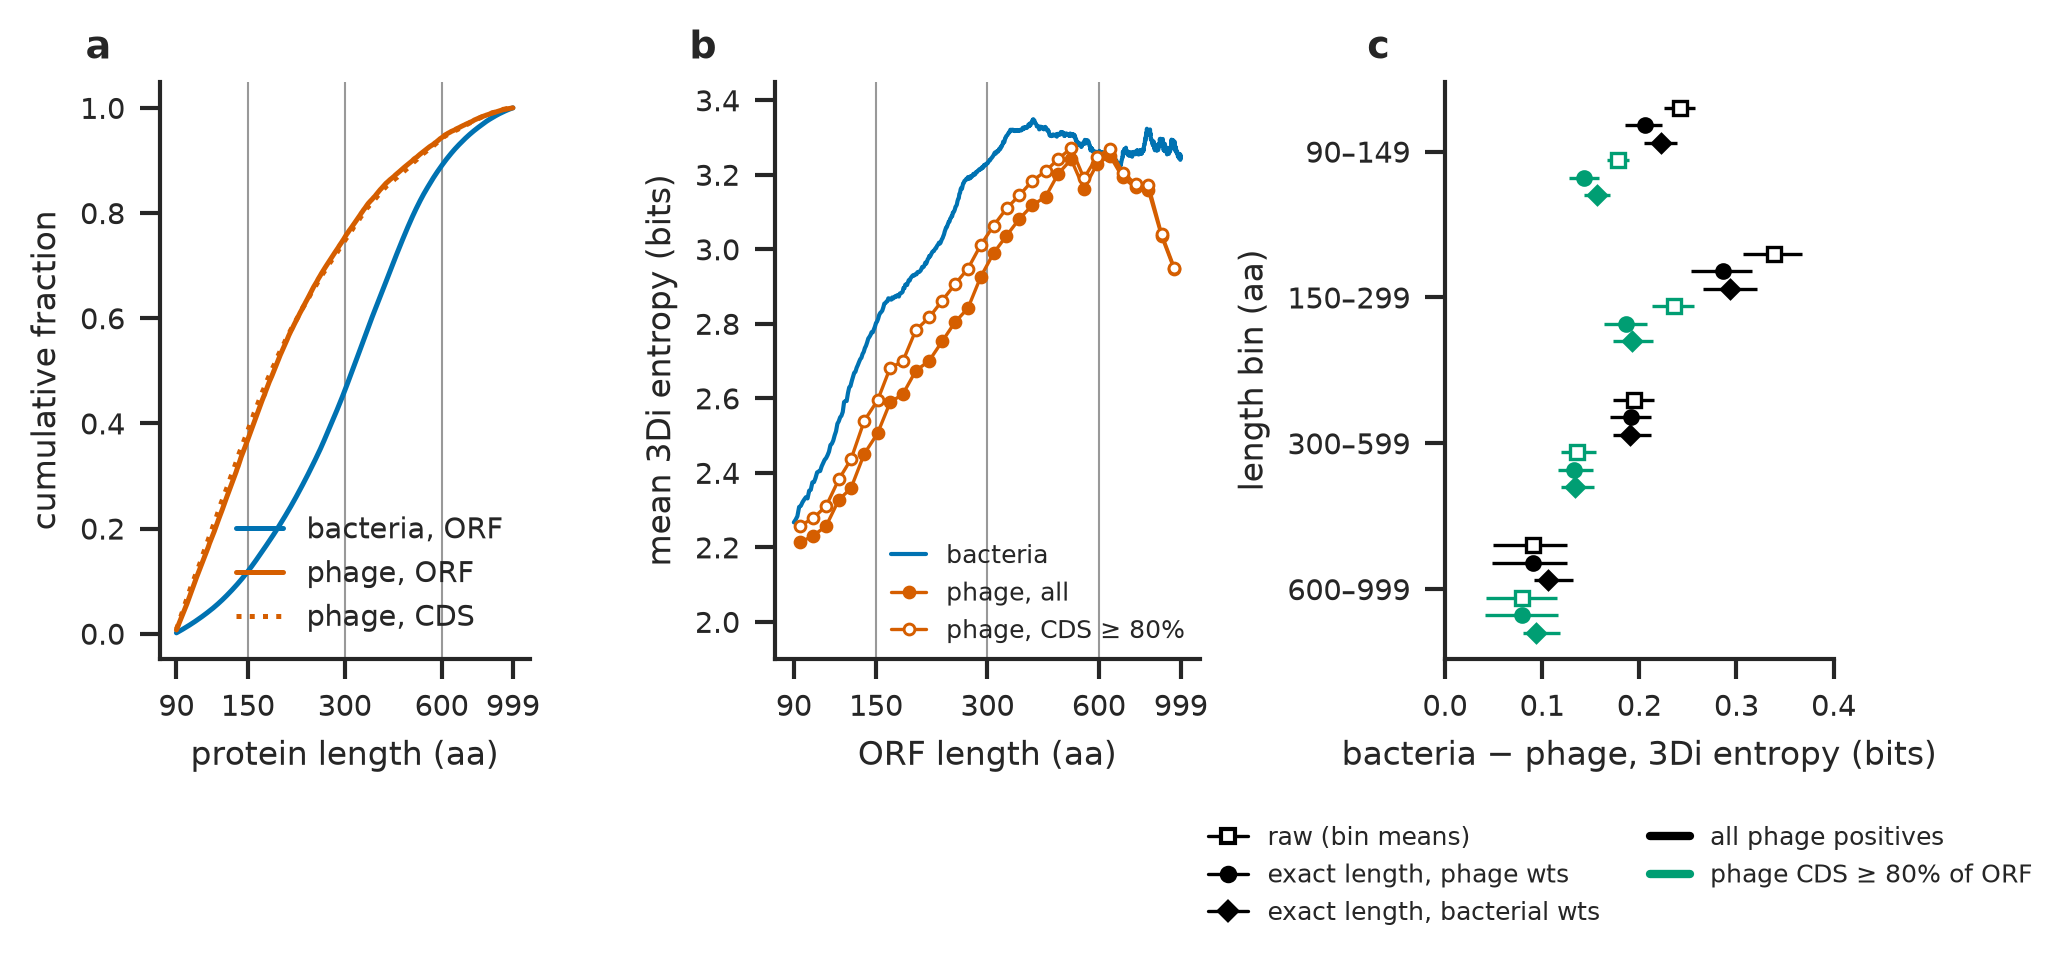
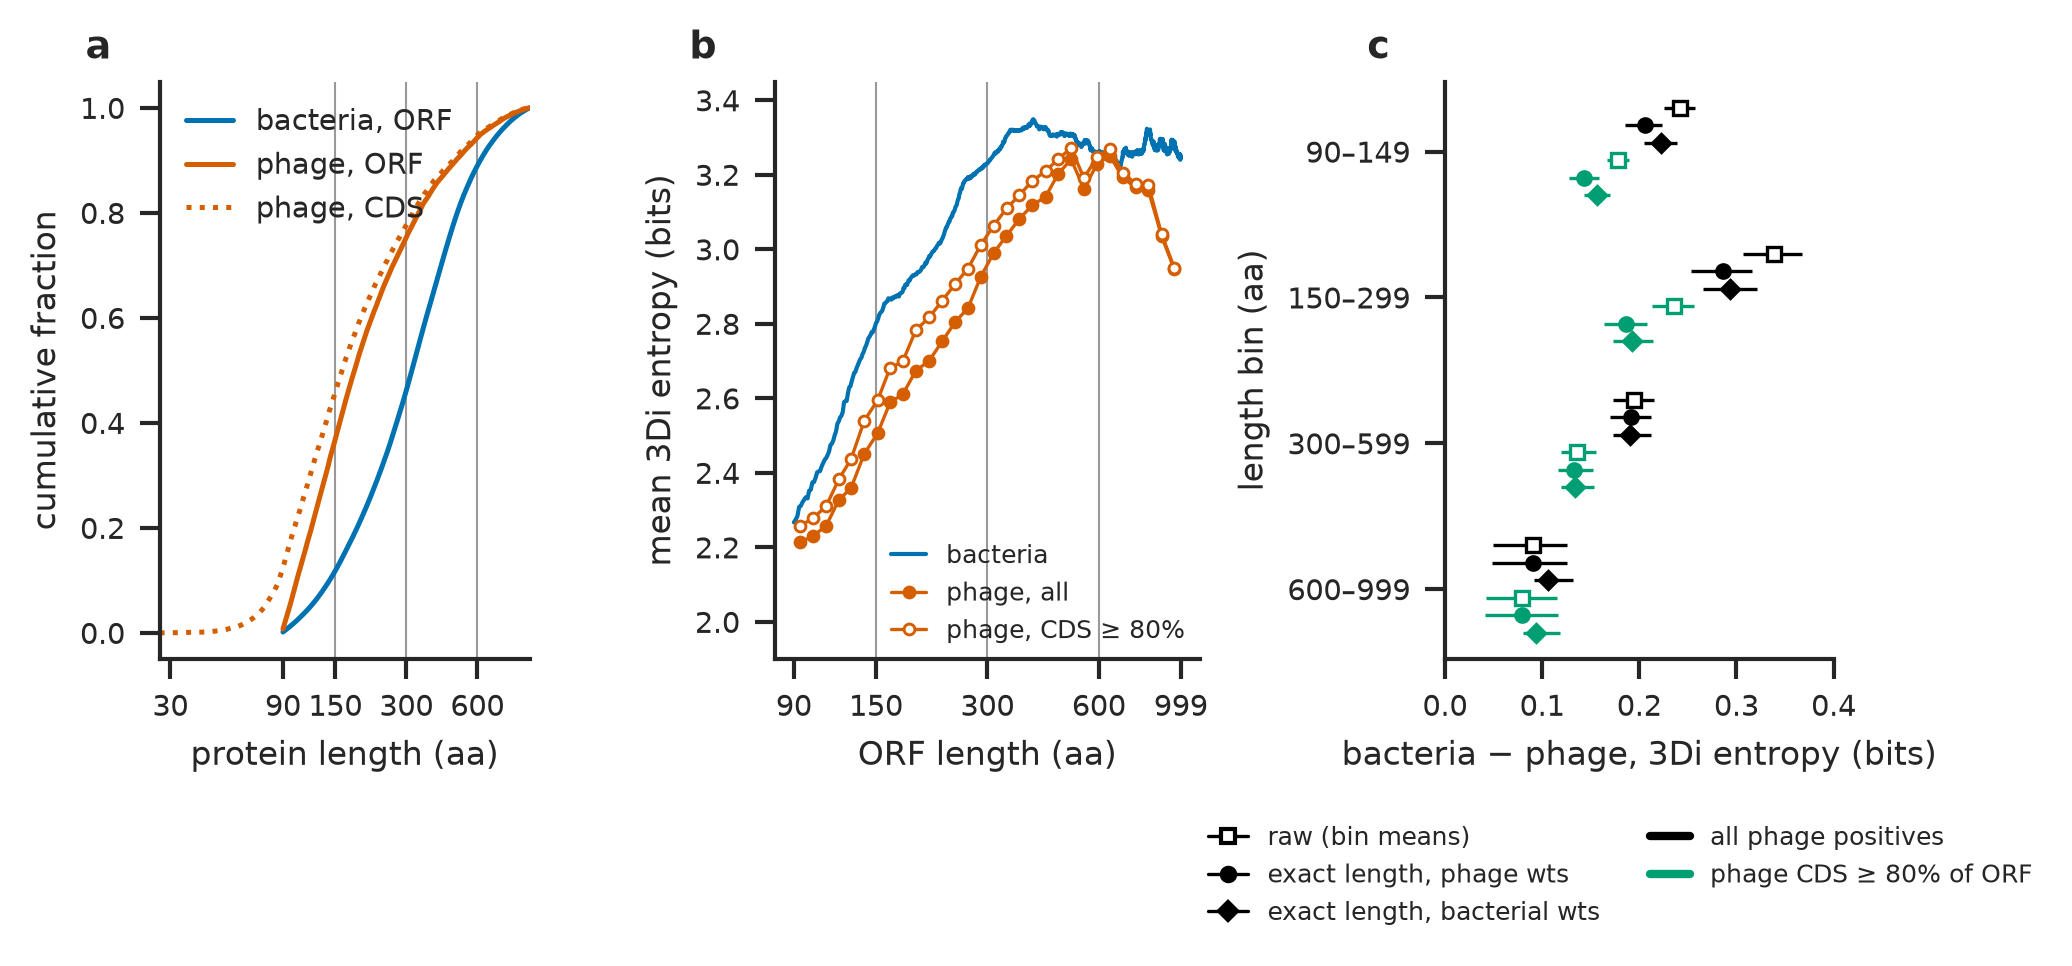
Fig. S22a: keep matched CDS shorter than 90 aa in the length distribution
The CDS behind a 90-999-aa matched ORF can be shorter than 90 aa, but the
length histogram was indexed on 90-999 and silently dropped 310,048 of
2,632,145 matched CDS. The index now spans every observed length (and
CDS > 999 aa), with a sum check. The matched-CDS median is 161 aa, not
178; the notebook notes and the S22 caption say so. Gap, per-length and
percentile tables are byte-identical after the re-run.

Addresses the Codex review on PR #160.

Claude-Session: https://claude.ai/code/session_01Qty5cpKKL2VmumAExL4gK5

Changed region(s): [[0.0618, 0.0932, 0.2471, 0.6522], [0.0618, 0.7143, 0.278, 0.7453]]

diff --git a/manuscript/prep/phage_length_gap_prepare_data.py b/manuscript/prep/phage_length_gap_prepare_data.py
@@ -216,14 +216,18 @@ def main():
     write(per_length(p, classes), "figPS03_phage_length_3di.tsv.gz")
 
     # length distributions: matched ORF length (3Di measured on it) and the CDS length behind each positive,
-    # plus every annotated CDS of >= 90 aa; bacterial ORF lengths come from the reference n column
-    L = pd.Index(np.arange(LMIN, LMAX + 1), name="aa_length")
+    # plus every annotated CDS; bacterial ORF lengths come from the reference n column. The index spans every
+    # observed length, so CDS shorter than 90 aa behind a 90-999-aa ORF (and CDS > 999 aa) keep their mass
+    L = pd.Index(np.arange(1, int(max(LMAX, p.aa_len.max(), c.aa_len.max())) + 1), name="aa_length")
+    PROV["cds_length"] = dict(matched_cds=int(p.aa_len.notna().sum()), matched_cds_below_90=int((p.aa_len < LMIN).sum()),
+                              matched_cds_min=int(p.aa_len.min()))
     dist = pd.DataFrame({
         "phage_matched_orf": p.aa_length.value_counts().reindex(L, fill_value=0),
         "phage_matched_cds": p.aa_len.value_counts().reindex(L, fill_value=0),
         "phage_cds_all": c.aa_len.value_counts().reindex(L, fill_value=0),
         "phage_matched_orf_cov80": p[cov80].aa_length.value_counts().reindex(L, fill_value=0),
     }).reset_index()
+    assert dist.phage_matched_cds.sum() == p.aa_len.notna().sum() and dist.phage_cds_all.sum() == len(c)
     write(dist, "figPS03_length_dist.tsv.gz")
 
     refs = bacteria_refs(a)

diff --git a/manuscript/genome_entropy.md b/manuscript/genome_entropy.md
@@ -691,4 +691,4 @@ Population-level quantities are unaffected: class means move by about 0.01 bits,
 
 ![**Figure S21.** The phage genome with the most candidates: *Agrobacterium* phage Atu_ph07 (NC_042013; 490,380 bp; 826 Pharokka + phold CDS), with 28 candidates (unannotated ORFs ≥ 90 aa, p ≥ 0.8; 17 antisense, 10 in another frame, 1 intergenic). **(a)** The whole genome: annotated CDS on each strand, coloured by PHROG function category, and candidates, shaped by context (circle, antisense; square, other frame; diamond, intergenic) and filled when Foldseek finds a full-length hit (query and target coverage ≥ 0.8, E ≤ 10⁻³) in PDB100, AFDB/Swiss-Prot, CATH50, BFVD or phold. **(b)** The 8 kb around orf104 and orf108: annotated CDS, then every ORF ≥ 90 aa in its reading frame (numbered as in Fig. 6d), coloured by the coding probability p; a black outline marks the ORF of an annotated gene, and candidates are outlined in red. orf108 (102 aa) has full-length hits to PAAR-repeat proteins in PDB100 and CATH50 (4JIW, 35% identity), phold and BFVD; orf104 matches a protein of this phage in the submitters' annotation (BFVD, 96% identity). Both are antisense only by a few codons: each overlaps an opposite-strand gene by 3–6% of its length.](images/figPS02_atu_ph07.png){#fig:s21 width=100%}
 
-![**Figure S22.** Phage proteins are shorter than bacterial proteins, but length explains little of the 3Di-entropy gap at matched length. **(a)** Cumulative length distributions of annotated (matched) stop-to-stop ORFs of 90–999 aa: bacteria (GTDB r232, 301.6 M ORFs), phage (Inphared, 2.64 M) and, for phage, the annotated CDS behind each matched ORF. Grey lines mark the length bins of the Results table. **(b)** Mean 3Di entropy of matched ORFs by length: bacteria at each exact length; phage, all positives (filled) and positives whose CDS covers ≥ 80% of the ORF (open), as n-weighted means in 30 log-spaced length bins. **(c)** Bacteria-minus-phage gap in each length bin: as published (bin means, open squares) and at exactly matched length, averaged over the phage (circles) or bacterial (diamonds) length distribution, for all phage positives (black) and for positives whose CDS covers ≥ 80% of the ORF (green). Bars are 95% intervals from 1,000 bootstrap resamples of 95% ANI clusters; the bacterial means are treated as fixed.](images/figPS03_phage_length_gap.png){#fig:s22 width=100%}
+![**Figure S22.** Phage proteins are shorter than bacterial proteins, but length explains little of the 3Di-entropy gap at matched length. **(a)** Cumulative length distributions of annotated (matched) stop-to-stop ORFs of 90–999 aa: bacteria (GTDB r232, 301.6 M ORFs), phage (Inphared, 2.64 M) and, for phage, the annotated CDS behind each matched ORF, including the 11.8% of these CDS that are shorter than 90 aa. Grey lines mark the length bins of the Results table. **(b)** Mean 3Di entropy of matched ORFs by length: bacteria at each exact length; phage, all positives (filled) and positives whose CDS covers ≥ 80% of the ORF (open), as n-weighted means in 30 log-spaced length bins. **(c)** Bacteria-minus-phage gap in each length bin: as published (bin means, open squares) and at exactly matched length, averaged over the phage (circles) or bacterial (diamonds) length distribution, for all phage positives (black) and for positives whose CDS covers ≥ 80% of the ORF (green). Bars are 95% intervals from 1,000 bootstrap resamples of 95% ANI clusters; the bacterial means are treated as fixed.](images/figPS03_phage_length_gap.png){#fig:s22 width=100%}
